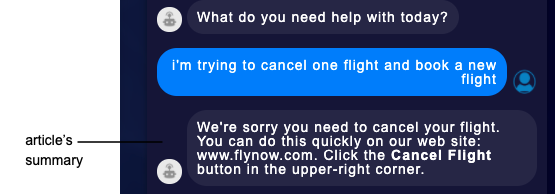
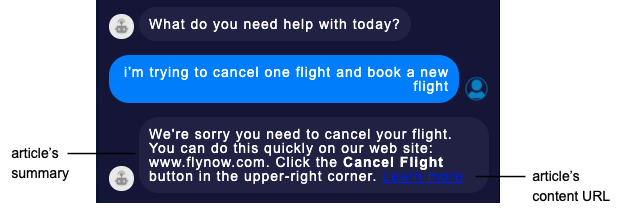
Update Simple layout format and info

diff --git a/pages/Documents/ConversationalAI/ConversationBuilder/Interactions/integrations.md b/pages/Documents/ConversationalAI/ConversationBuilder/Interactions/integrations.md
@@ -92,7 +92,7 @@ With the Structured layout:
 
 #### The Simple answer layout
 
-The Simple layout doesn’t include rich elements like images and URLs. It looks like this:
+The Simple layout doesn’t include rich elements like images. It looks like this:
 
 <img style="width:500px" src="img/ConvoBuilder/knowledge_ai_plain.png">
 
@@ -147,7 +147,7 @@ For example:
 
     * **Max number of answers**: Select the maximum number of answers to return from the knowledge base, anywhere from one to three. The default value is one.
     * **Answer layout**: Select "Structured," "Simple," or "Custom" based on your requirements. These layout options are discussed farther above.
-    * **Link text for content URL**: This setting is available only when you select "Structured" for the **Answer layout**. Enter the label to use for the link to the article's content URL, e.g., "Learn more." The link will open the URL in a new window. You can enter a botContext or environment variable here, e.g., {$botContext.\<name\>}.
+    * **Link text for content URL**: This setting is available when you select "Structured" or "Simple" for the **Answer layout**. Enter the label to use for the link to the article's content URL, e.g., "Learn more." The link will open the URL in a new window. You can enter a botContext or environment variable here, e.g., {$botContext.\<name\>}.
     * **Default image URL**: This optional setting is available only when you select "Structured" for the **Answer layout**. If you enter an image URL, then when an article doesn't have an image URL within the knowledge base, this image is used in the Structured output. This presents a uniform consumer experience across all articles, even when some articles have images but others don't. You might specify a company logo. Remember to whitelist the image URL, as discussed [here](conversation-builder-networking-security.html#whitelisting-rich-media). You can also enter a botContext or environment variable here, e.g., {$botContext.\<name\>}.
     * **Response data variable**: This setting is available only when you select "Custom" for the **Answer layout**. Enter the name of the response data variable that will store the answer results. The default variable name is "kb_search."
 7. Click **Save**.
